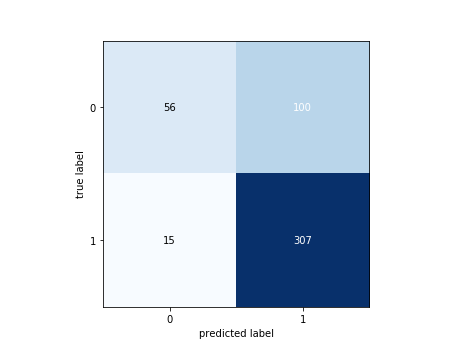
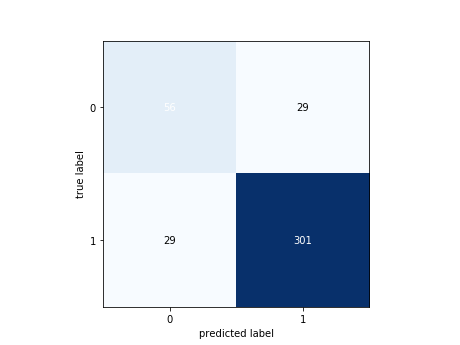
update

Changed region(s): [[0.487, 0.1159, 0.8217, 0.5217], [0.3652, 0.6667, 0.3957, 0.7246], [0.3652, 0.2899, 0.3957, 0.3188]]

diff --git a/src/extractor/sift.py b/src/extractor/sift.py
@@ -9,10 +9,10 @@ def extract(path, vector_size = 32):
         x_val = []
         y_val = []
 
-        sift = cv2.xfeatures2d.SIFT_create()
+        sift = cv2.xfeatures2d.SIFT_create(10)
 
         print(path)
-        f_imgs = np.array([f for f in os.listdir(path) if(f.endswith('10.png'))])
+        f_imgs = np.array([f for f in os.listdir(path) if(f.endswith('.png'))])
         
         i = 0
         for f in f_imgs:
@@ -26,14 +26,14 @@ def extract(path, vector_size = 32):
                 if dsc is not None:
 
                     # # Flatten all of them in one big vector - our feature vector
-                    # dsc = dsc.flatten()
+                    dsc = dsc.flatten()
                     # # Making descriptor of same size
                     # # Descriptor vector size is 64
-                    # needed_size = (vector_size * 64)
-                    # if dsc.size < needed_size:
+                    needed_size = (vector_size * 64)
+                    if dsc.size < needed_size:
                     #     # if we have less the 32 descriptors then just adding zeros at the
                     #     # end of our feature vector
-                    #     dsc = np.concatenate([dsc, np.zeros(needed_size - dsc.size)])
+                        dsc = np.concatenate([dsc, np.zeros(needed_size - dsc.size)])
 
                     # # print(dsc.size)
                     x_val.append(dsc)
@@ -47,6 +47,9 @@ def extract(path, vector_size = 32):
                 print('Error: ', e)
                     
         X, Y = np.array(x_val) , np.array(y_val)
+
+        # for i in X:
+        #     print(i.size)
 
         # split between training and testing data
         index_train = np.random.choice(X.shape[0], int(X.shape[0] * 0.7), replace=False)

diff --git a/teste.py b/teste.py
@@ -1,0 +1,27 @@
+# importing tkinter module 
+from tkinter import * 
+from tkinter.ttk import *
+  
+# creating tkinter window 
+root = Tk() 
+  
+# Progress bar widget 
+progress = Progressbar(root, orient = HORIZONTAL, 
+              length = 100, mode = 'determinate') 
+  
+# Function responsible for the updation 
+# of the progress bar value 
+def bar(): 
+    import time
+    for i in range(0, 100):
+        progress['value'] = i
+        root.update_idletasks()
+        time.sleep(0.5)
+
+  
+  
+progress.pack(pady = 10) 
+  
+bar() 
+# infinite loop 
+mainloop() 

diff --git a/src/classifier/knn.py b/src/classifier/knn.py
@@ -41,7 +41,7 @@ def classify(type):
     # X_train = pca.transform(X_train)
     # X_test = pca.transform(X_test)
 
-    classifier = KNeighborsClassifier(n_neighbors=33, weights="uniform", metric="manhattan")
+    classifier = KNeighborsClassifier(n_neighbors=3, weights="uniform", metric="manhattan")
 
     classifier.fit(X_train, y_train)
     y_predicted = classifier.predict(X_test)
